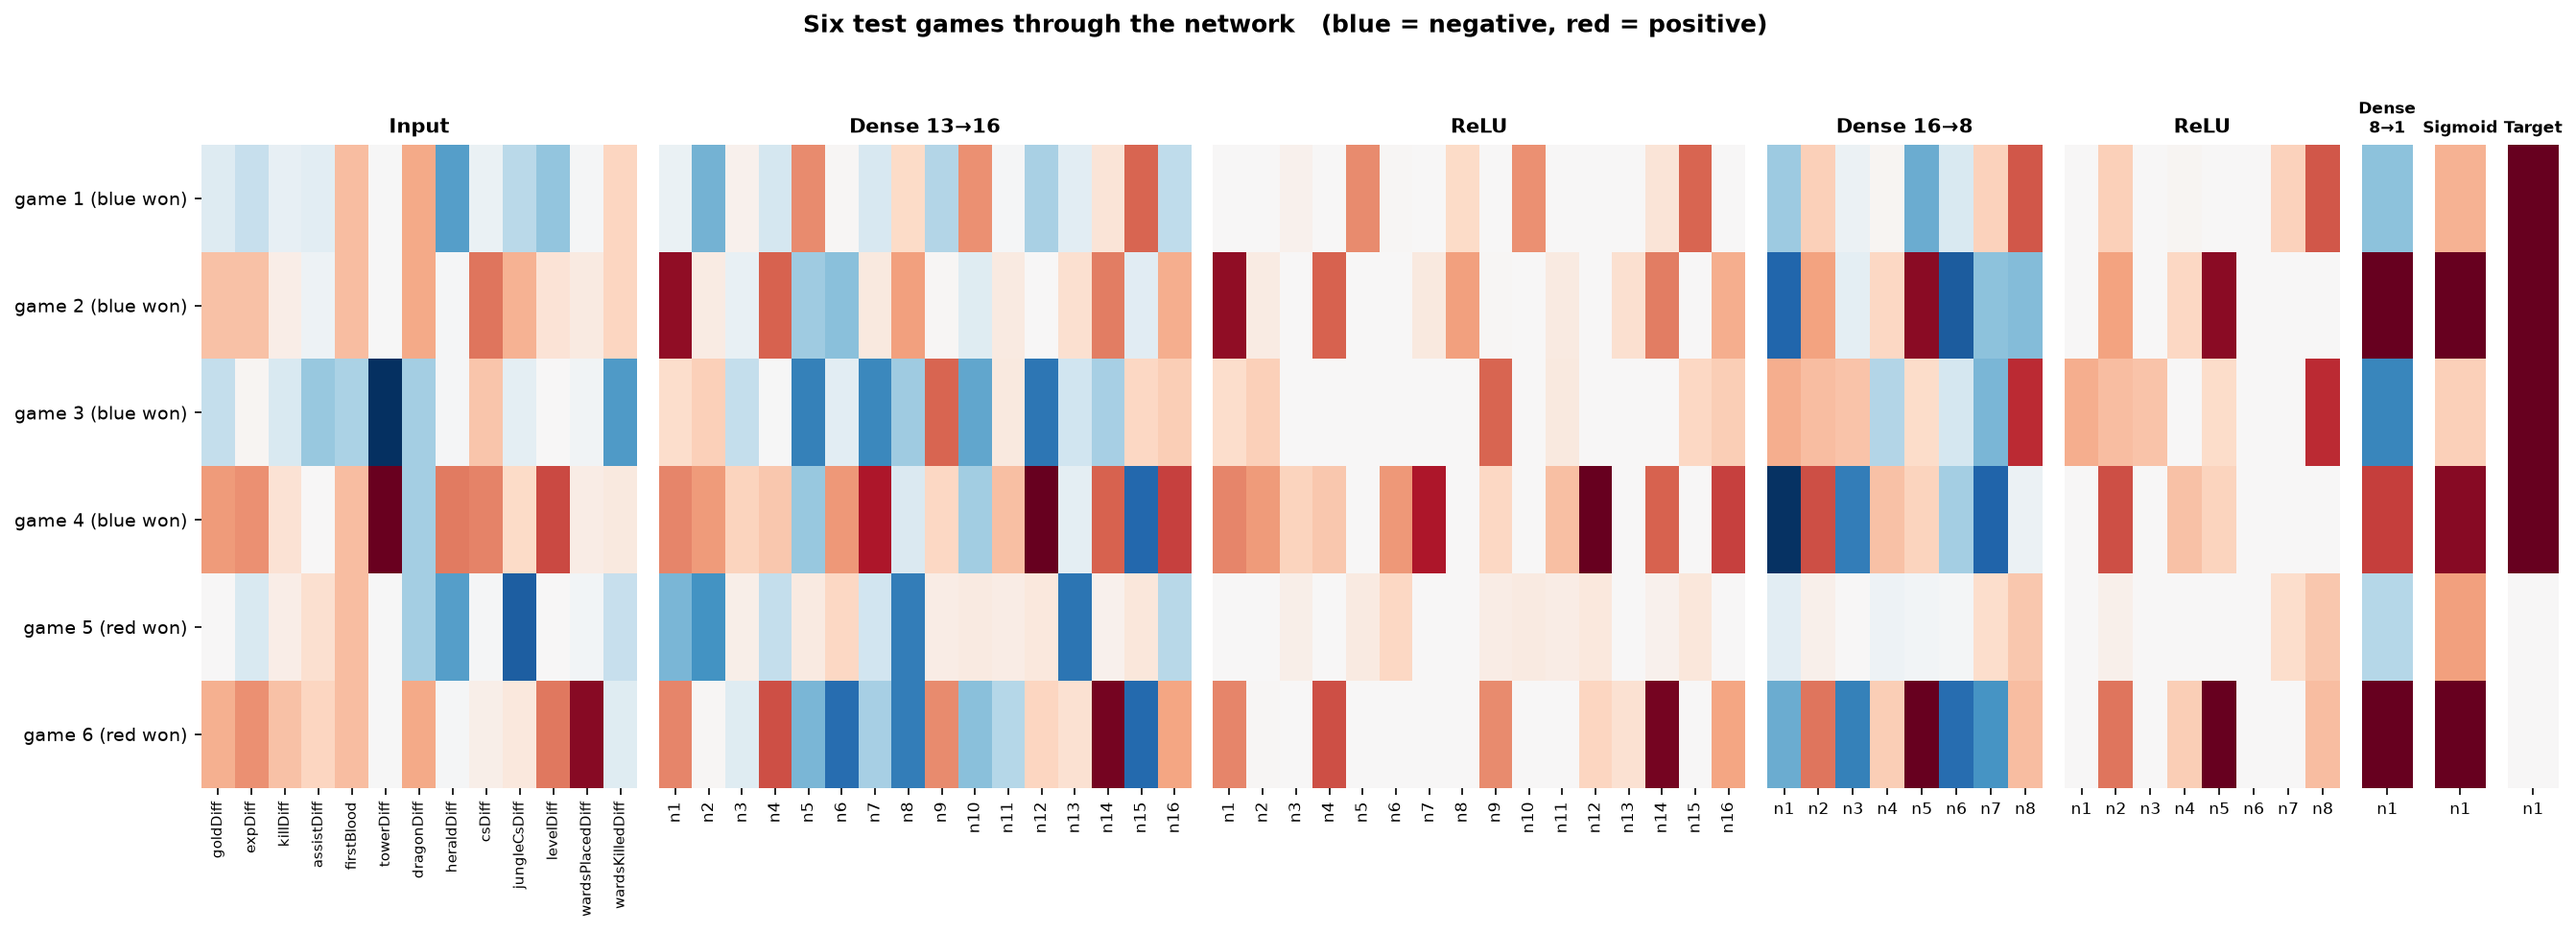
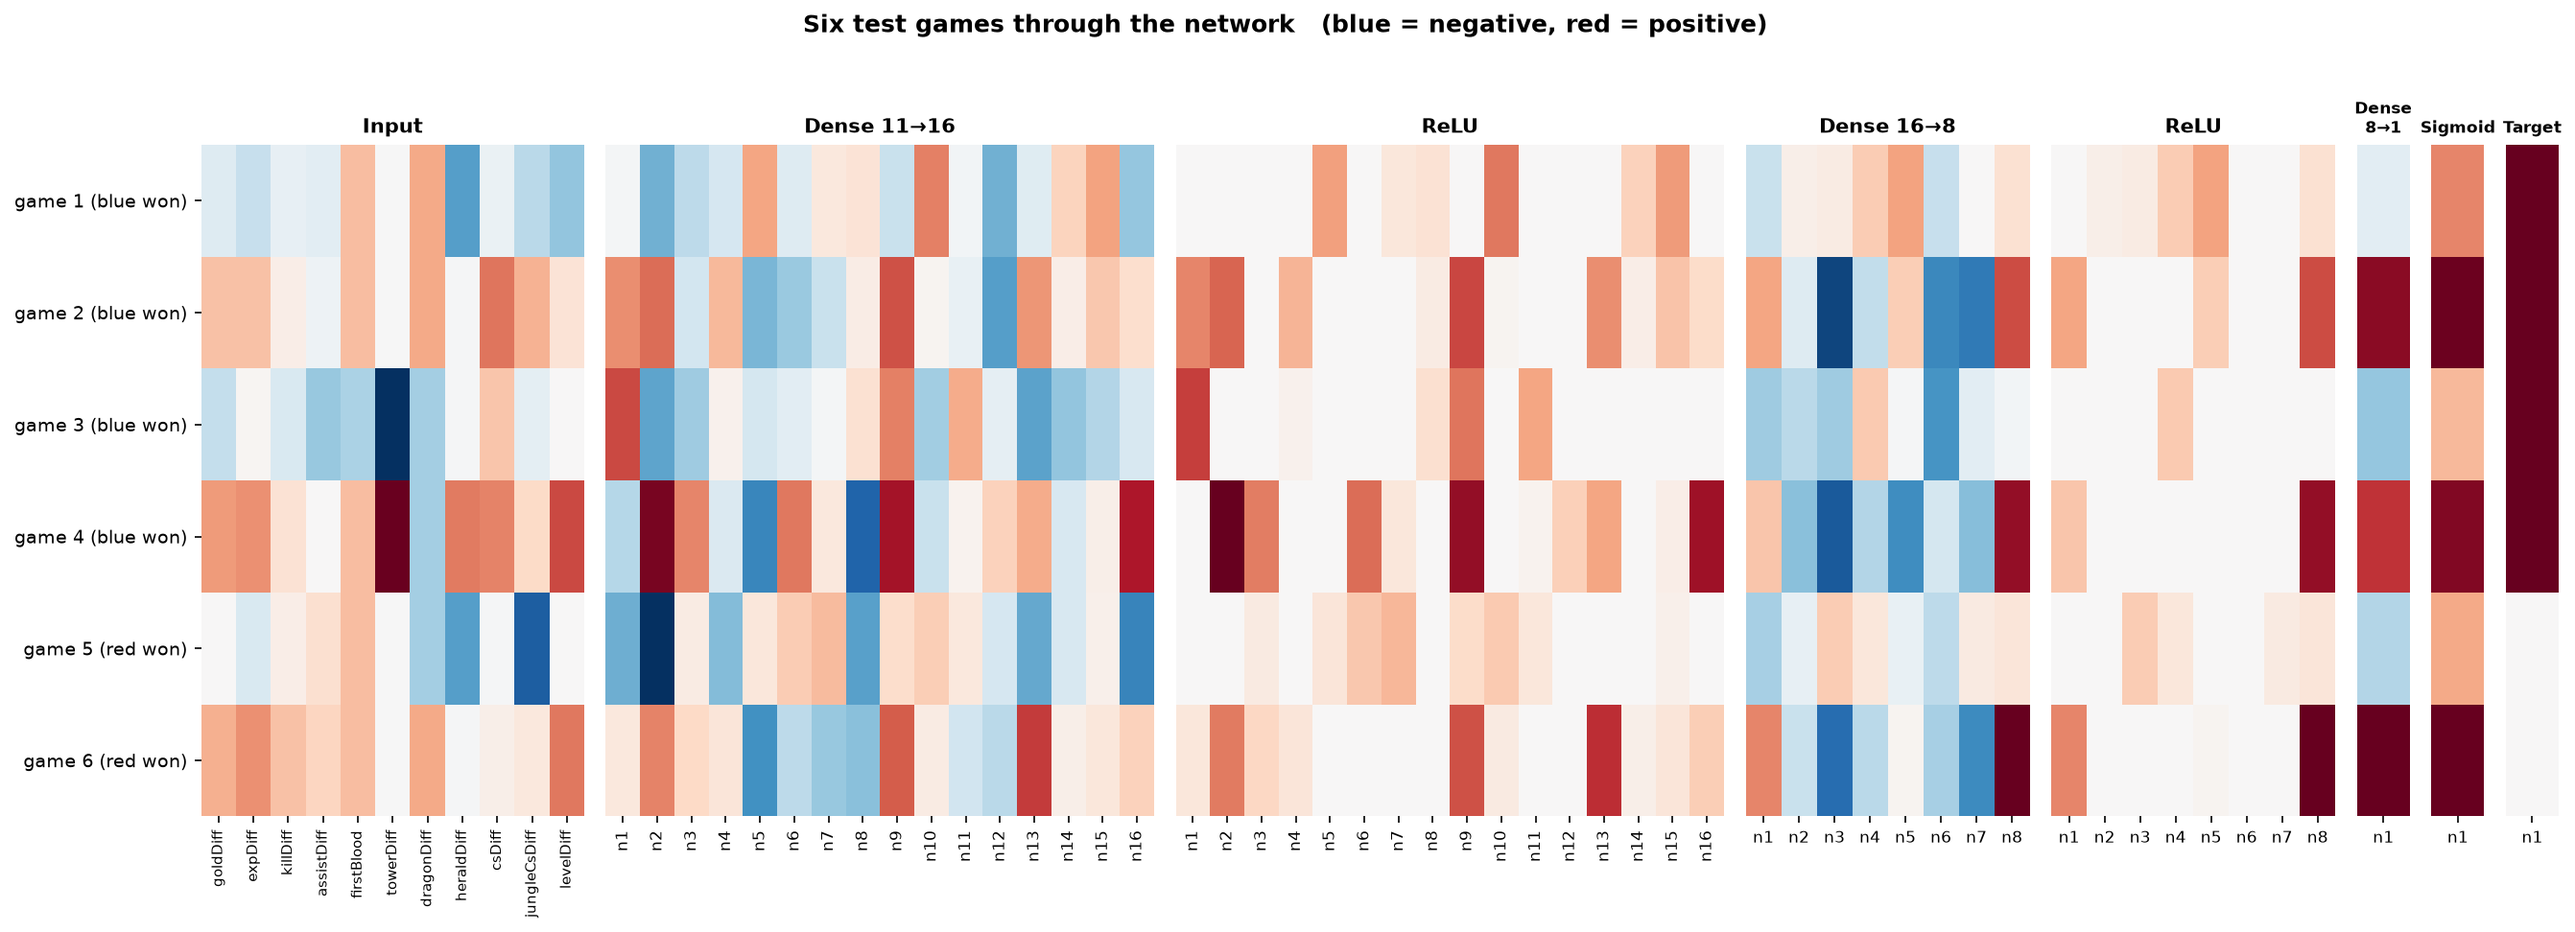
Drop ward count features from the Kaggle data
Heavy-tailed and carrying no signal; logistic regression gave them ~0
weight. Network input goes from 13 to 11 features. Regenerate plots and
saved model.

diff --git a/nn/data.py b/nn/data.py
@@ -5,6 +5,9 @@ import numpy as np
 # both teams' stats, but many columns are mirrors of each other (redKills equals
 # blueDeaths, redGoldDiff equals -blueGoldDiff), so differences remove the
 # redundancy and give the network fewer, more meaningful inputs.
+# Ward counts are left out on purpose: they are the only heavy-tailed columns (a team can
+# place 250 wards, the median is 16), and they carry no signal. Logistic regression gives
+# them a weight of about 0, and dropping them left its accuracy unchanged.
 LOL_FEATURES = [
     ("goldDiff",        lambda d: d["blueGoldDiff"]),
     ("expDiff",         lambda d: d["blueExperienceDiff"]),
@@ -17,8 +20,6 @@ LOL_FEATURES = [
     ("csDiff",          lambda d: d["blueTotalMinionsKilled"] - d["redTotalMinionsKilled"]),
     ("jungleCsDiff",    lambda d: d["blueTotalJungleMinionsKilled"] - d["redTotalJungleMinionsKilled"]),
     ("levelDiff",       lambda d: d["blueAvgLevel"] - d["redAvgLevel"]),
-    ("wardsPlacedDiff", lambda d: d["blueWardsPlaced"] - d["redWardsPlaced"]),
-    ("wardsKilledDiff", lambda d: d["blueWardsDestroyed"] - d["redWardsDestroyed"]),
 ]
 
 REQUIRED_COLUMNS = [
@@ -26,8 +27,7 @@ REQUIRED_COLUMNS = [
     "blueAssists", "redAssists", "blueFirstBlood", "blueTowersDestroyed",
     "redTowersDestroyed", "blueDragons", "redDragons", "blueHeralds", "redHeralds",
     "blueTotalMinionsKilled", "redTotalMinionsKilled", "blueTotalJungleMinionsKilled",
-    "redTotalJungleMinionsKilled", "blueAvgLevel", "redAvgLevel", "blueWardsPlaced",
-    "redWardsPlaced", "blueWardsDestroyed", "redWardsDestroyed",
+    "redTotalJungleMinionsKilled", "blueAvgLevel", "redAvgLevel",
 ]
 
 

diff --git a/examples/compare_models.py b/examples/compare_models.py
@@ -1,4 +1,4 @@
-"""Does the hidden layer help?  (logistic regression vs the 13-16-8-1 network)
+"""Does the hidden layer help?  (logistic regression vs the 11-16-8-1 network)
 
 Trains each model on several different random train/validation/test splits of the
 same data and compares test scores. Using several splits matters: with ~1,500 test
@@ -34,7 +34,7 @@ def small_network(n_features):
 
 
 MODELS = {"Logistic regression\n(no hidden layer)": logistic_regression,
-          "Network\n13-16-8-1": small_network}
+          "Network\n11-16-8-1": small_network}
 
 X, y, names = load_lol(CSV_PATH)
 acc = {m: [] for m in MODELS}
